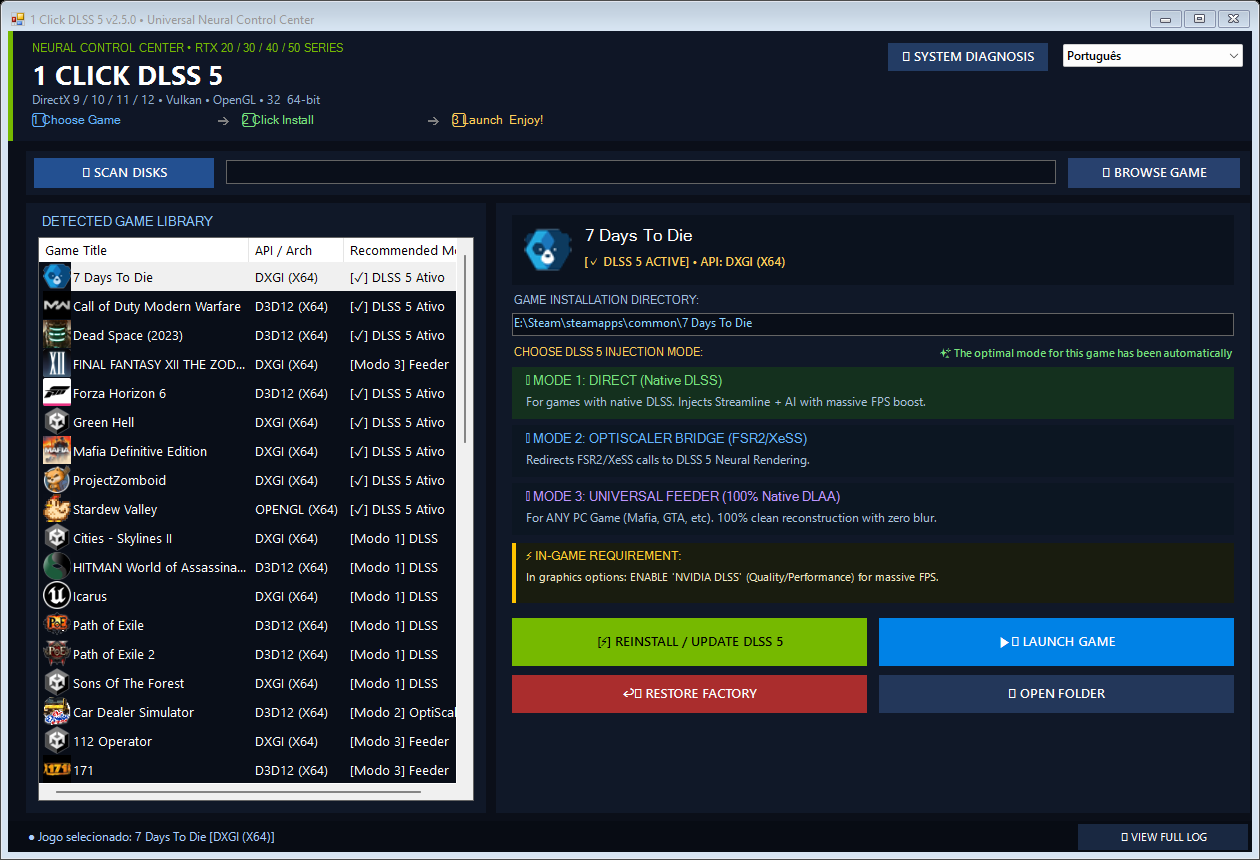
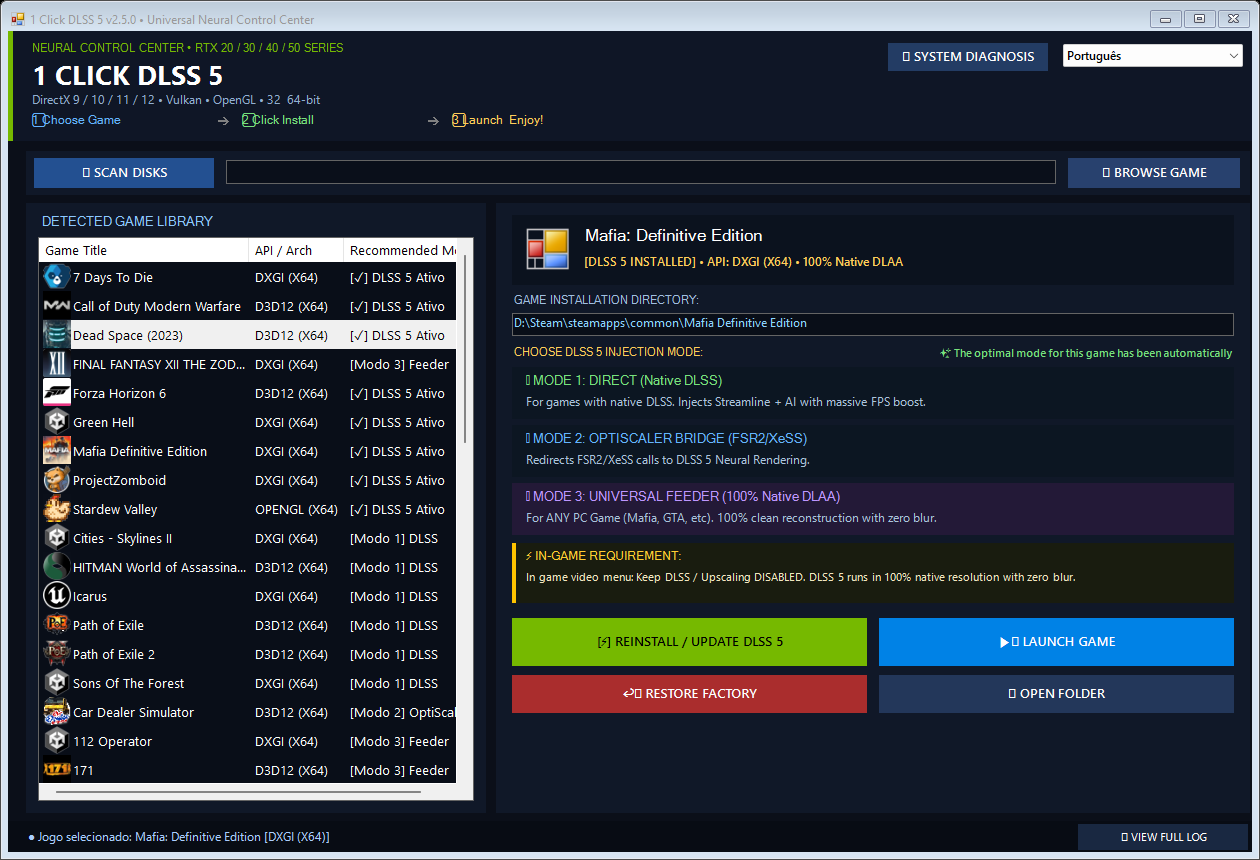
docs: separate individual HUD previews for Mode 1, Mode 2, and Mode 3 with distinct game configurations

diff --git a/README.md b/README.md
@@ -46,24 +46,24 @@ Traditionally, integrating DLSS-NR, custom ReShade add-ons, optical flow estimat
 
 <div align="center">
 
-### 1⃣ Main Control Center & Mode 1: Direct Injection (Cyberpunk 2077)
-![1-Click DLSS 5 Main Interface](core/docs/ui_preview.png)
+### 1⃣ Mode 1: Direct Injection Mode (Cyberpunk 2077 • Native DLSS)
+![Mode 1: Direct Injection](core/docs/mode1_direct_preview.png)
 
-*Streamlined HUD v2 layout with 3-step workflow, real-time API detection, and auto-mode selection.*
-
-<br/>
-
-### 2⃣ Mode 3: Universal Feeder & Optical Flow Pipeline (Mafia: Definitive Edition)
-![Mode 3 Universal Feeder Interface](core/docs/ui_preview_feeder.png)
-
-*Engineered for games without native DLSS using Lumenite Kernel motion vectors and 100% native resolution DLAA reconstruction.*
+*Streamlined HUD v2 layout with 3-step workflow, real-time D3D12 detection, and automated Mode 1 selection for native DLSS games.*
 
 <br/>
 
-### 3⃣ Mode 2: OptiScaler Bridge Mode (God of War - FSR2/XeSS)
-![Mode 2 OptiScaler Bridge Interface](core/docs/feeder_settings.png)
+### 2⃣ Mode 2: OptiScaler Bridge Mode (God of War • AMD FSR 2/3 & Intel XeSS)
+![Mode 2: OptiScaler Bridge](core/docs/mode2_optiscaler_preview.png)
 
-*Redirects in-game AMD FSR 2/3 or Intel XeSS calls directly into the NVIDIA DLSS-NR neural model.*
+*Redirects in-game AMD FSR 2/3 or Intel XeSS calls directly into the NVIDIA DLSS-NR neural model via proxy redirection.*
+
+<br/>
+
+### 3⃣ Mode 3: Universal Feeder Mode (Mafia: Definitive Edition • 100% Native DLAA)
+![Mode 3: Universal Feeder](core/docs/mode3_feeder_preview.png)
+
+*Engineered for games without any native upscalers using Lumenite Kernel optical flow motion vectors and zero loss of clarity.*
 
 </div>
 
